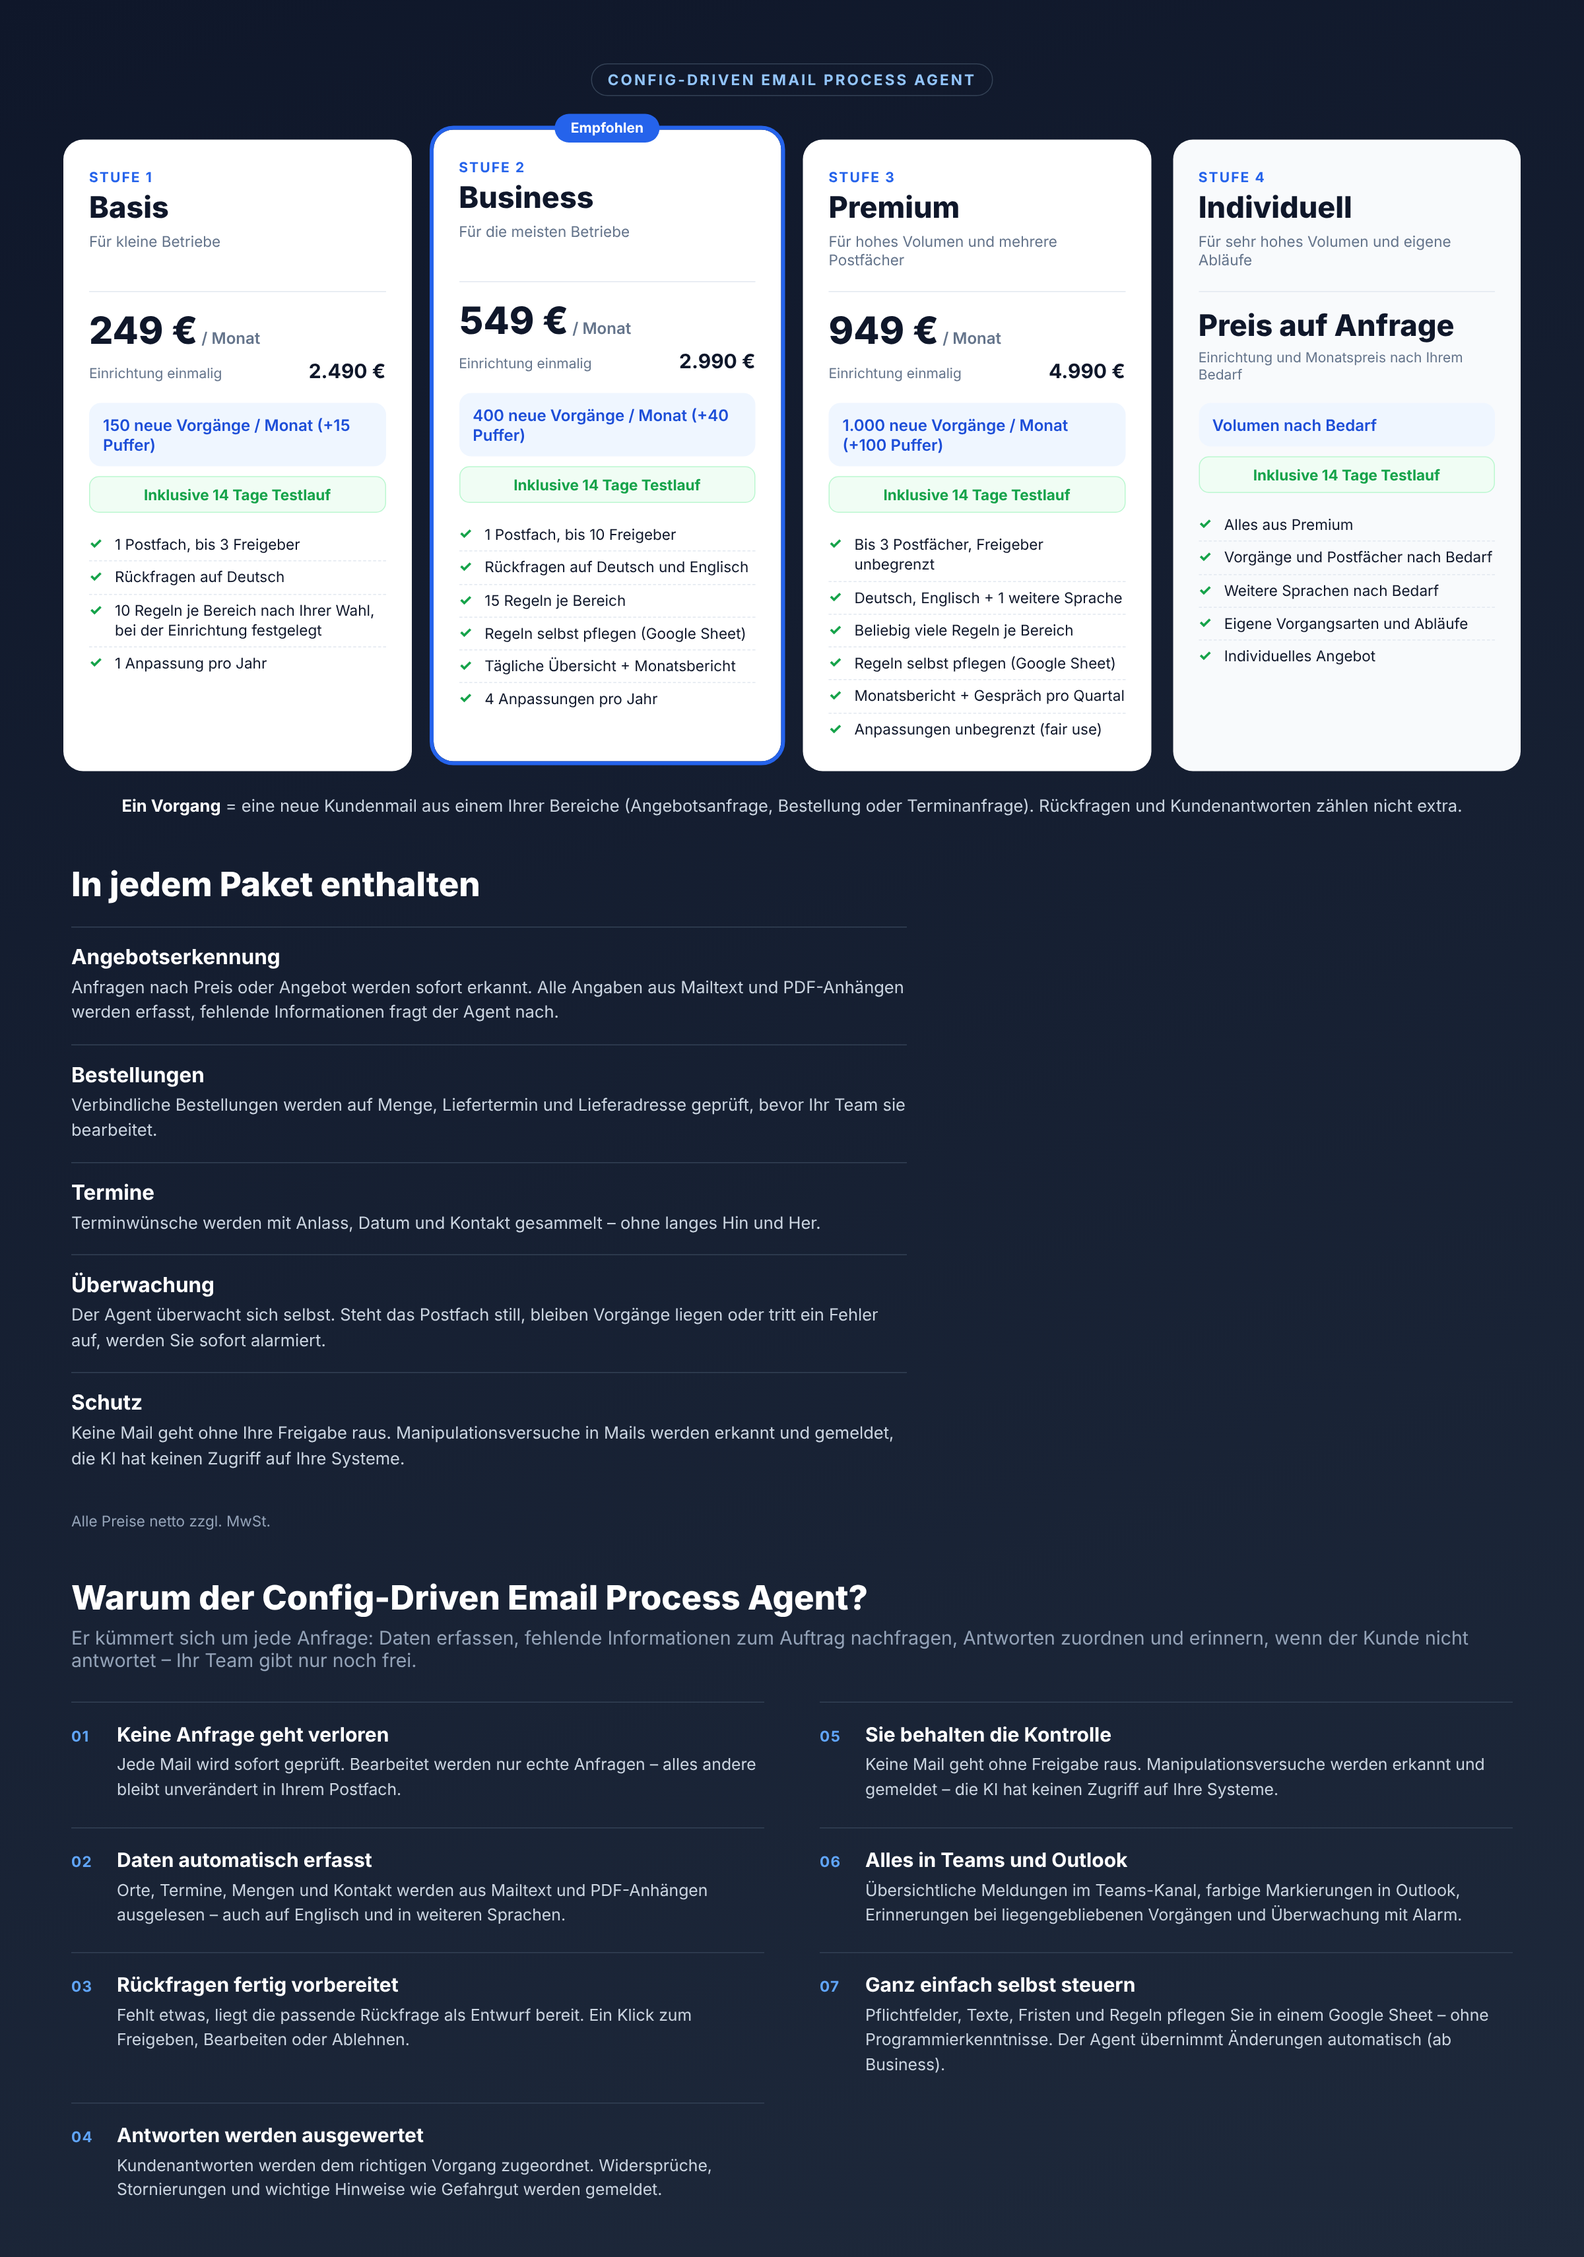
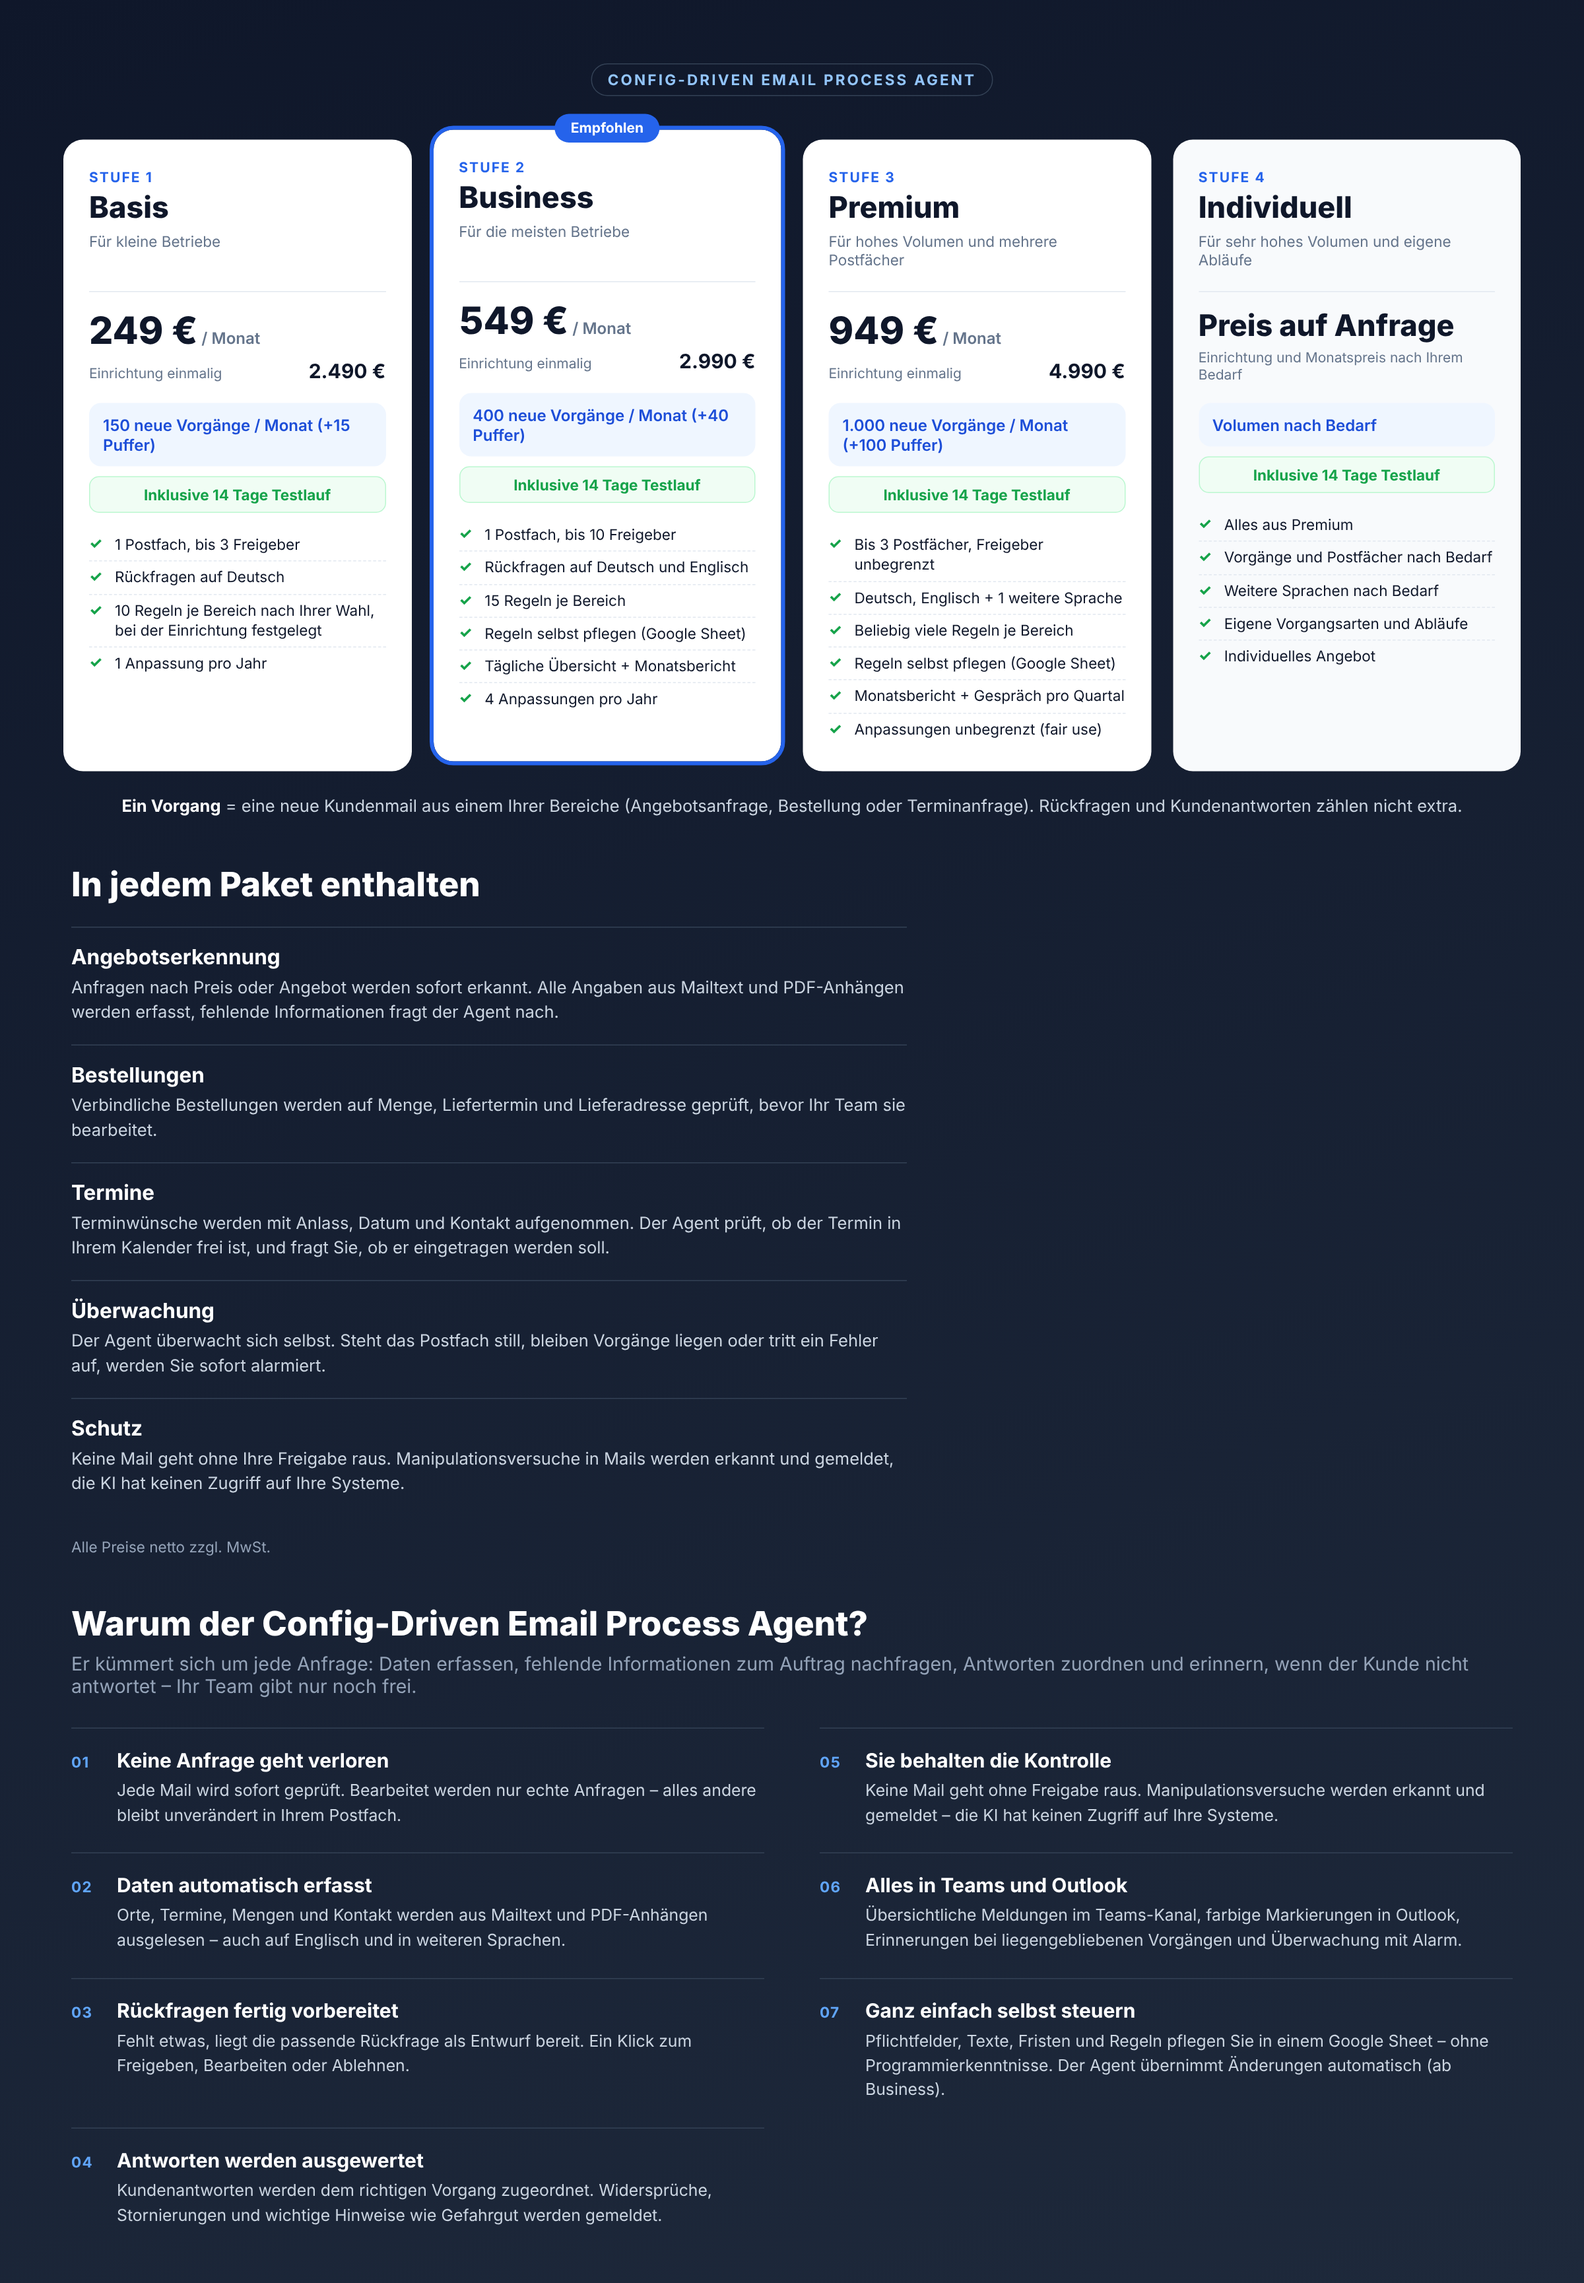
Marketing: Termine mit Kalenderprüfung und Eintragen nach Rückfrage (Funktion noch zu bauen)
Claude-Session: https://claude.ai/code/session_01DWBN4EiRV4Kip9NV7YGeLF

diff --git a/email-process-agent/docs/marketing/pakete-komplett.html b/email-process-agent/docs/marketing/pakete-komplett.html
@@ -174,7 +174,7 @@ li::before{content:"✓";position:absolute;left:0;top:5px;color:var(--ok);font-w
   <div class="inh-liste">
     <div class="ip"><h3>Angebotserkennung</h3><p>Anfragen nach Preis oder Angebot werden sofort erkannt. Alle Angaben aus Mailtext und PDF-Anhängen werden erfasst, fehlende Informationen fragt der Agent nach.</p></div>
     <div class="ip"><h3>Bestellungen</h3><p>Verbindliche Bestellungen werden auf Menge, Liefertermin und Lieferadresse geprüft, bevor Ihr Team sie bearbeitet.</p></div>
-    <div class="ip"><h3>Termine</h3><p>Terminwünsche werden mit Anlass, Datum und Kontakt gesammelt – ohne langes Hin und Her.</p></div>
+    <div class="ip"><h3>Termine</h3><p>Terminwünsche werden mit Anlass, Datum und Kontakt aufgenommen. Der Agent prüft, ob der Termin in Ihrem Kalender frei ist, und fragt Sie, ob er eingetragen werden soll.</p></div>
     <div class="ip"><h3>Überwachung</h3><p>Der Agent überwacht sich selbst. Steht das Postfach still, bleiben Vorgänge liegen oder tritt ein Fehler auf, werden Sie sofort alarmiert.</p></div>
     <div class="ip"><h3>Schutz</h3><p>Keine Mail geht ohne Ihre Freigabe raus. Manipulationsversuche in Mails werden erkannt und gemeldet, die KI hat keinen Zugriff auf Ihre Systeme.</p></div>
   </div>
